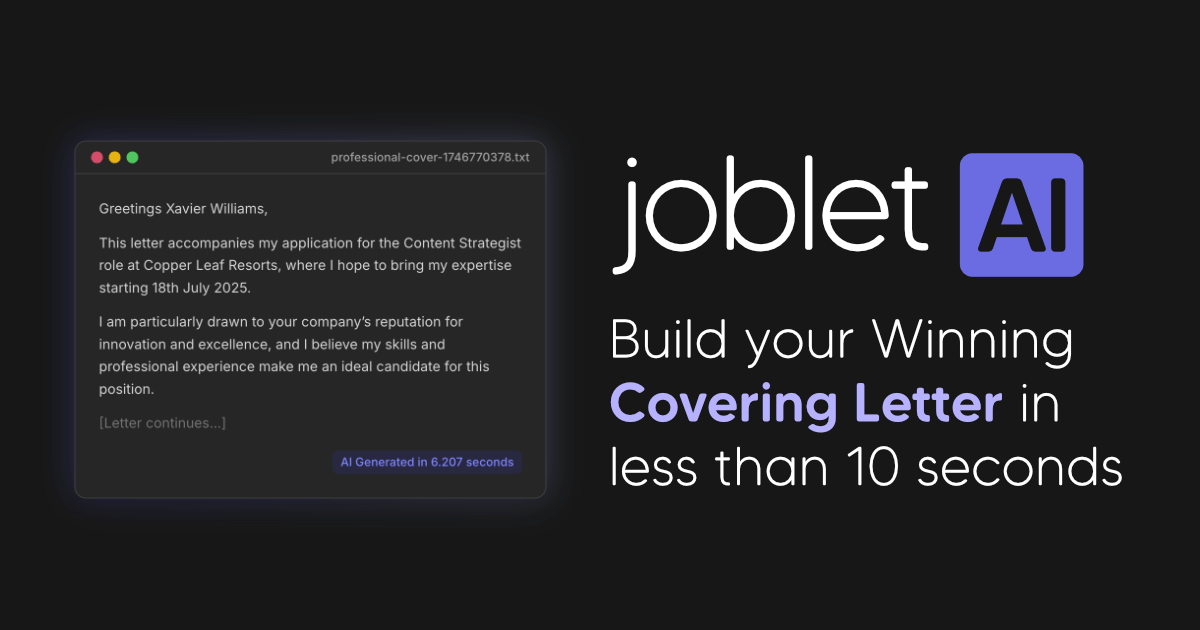
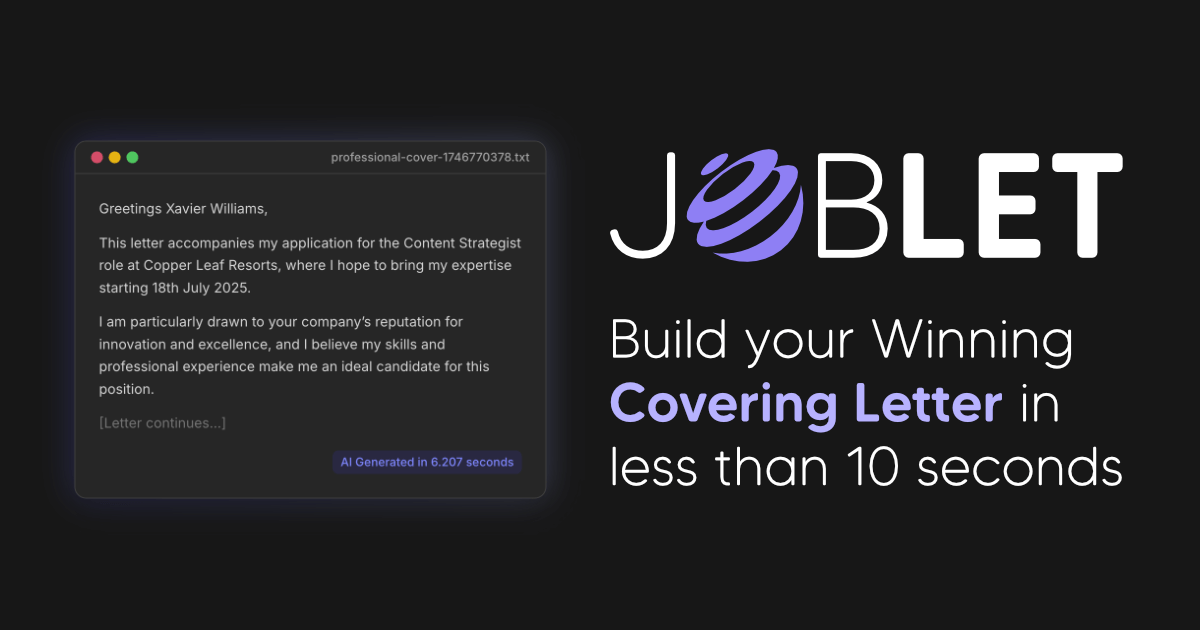
Updated branding

Changed region(s): [[0.4933, 0.2413, 0.9558, 0.4524]]

diff --git a/database/translations/en/home.php b/database/translations/en/home.php
@@ -4,7 +4,7 @@ declare(strict_types=1);
 
 return [
     'title'                            => 'Create Professional Cover Letters in Minutes',
-    'description'                      => 'Create compelling cover letters with JobletAI, delivering customisable templates that highlight your qualifications and capture employer attention. Sign up today!',
+    'description'                      => 'Create compelling cover letters with Joblet, delivering customisable templates that highlight your qualifications and capture employer attention. Sign up today!',
     // HERO SECTION
     'hero.title.part1'                 => 'Build your winning',
     'hero.title.part2'                 => 'Covering Letter',
@@ -26,7 +26,7 @@ return [
     'benefits.list.3.title'            => 'Save Time',
     'benefits.list.3.text'             => 'Creating a well-crafted cover letter typically requires multiple drafts and revisions for each job application. Our service delivers a polished letter in minutes without requiring writing expertise, letting you focus on other aspects of your job search.',
     'benefits.list.4.title'            => 'Stand Out From Competition',
-    'benefits.list.4.text'             => 'The competitive nature of job applications demands cover letters that capture attention. Your JobletAI letter highlights your unique value proposition and relevant skills, ensuring your application rises above the crowd and increases your chances of securing an interview.',
+    'benefits.list.4.text'             => 'The competitive nature of job applications demands cover letters that capture attention. Your Joblet letter highlights your unique value proposition and relevant skills, ensuring your application rises above the crowd and increases your chances of securing an interview.',
     // PROCESS SECTION - HOW IT WORKS
     'process.title.part1'              => 'Three Steps to',
     'process.title.part2'              => 'Success',
@@ -42,7 +42,7 @@ return [
     // TESTIMONIALS SECTION - SUCCESS STORIES
     'testimonials.title.part1'         => 'Application',
     'testimonials.title.part2'         => 'Game-Changers',
-    'testimonials.subtitle'            => 'See how successful applicants use JobletAI to craft compelling applications that showcase their value to employers.',
+    'testimonials.subtitle'            => 'See how successful applicants use Joblet to craft compelling applications that showcase their value to employers.',
     // PRICING SECTION
     'pricing.title.part1'              => 'Flexible',
     'pricing.title.part2'              => 'Simple',
@@ -59,7 +59,7 @@ return [
     'action.title.part1'               => 'Are you ready to',
     'action.title.part2'               => 'Impress Employers',
     'action.title.part3'               => '?',
-    'action.subtitle'                  => 'Stand alongside countless professionals who have used JobletAI to create standout applications that land interviews!',
+    'action.subtitle'                  => 'Stand alongside countless professionals who have used Joblet to create standout applications that land interviews!',
     'action.button1'                   => 'Sign up & get started',
     'action.button2'                   => 'Start your letter build',
     // LETTER PREVIEWS

diff --git a/routes/dev.php b/routes/dev.php
@@ -2,38 +2,29 @@
 
 declare(strict_types=1);
 
-// use App\Models\Order;
-// use App\Models\Payment;
-// use App\Services\Models\UserService;
-// use Illuminate\Support\Facades\Route;
-//
-// Route::get('mailable', static function ()
-// {
+//use App\Models\Order;
+//use App\Models\Payment;
+//use App\Services\Models\UserService;
+//use Illuminate\Support\Facades\Route;
+
+//Route::get('mailable', static function ()
+//{
 //    $data = [
-//        'name' => 'Jane Smith',
-//        'email' => 'jane.smith@example.com',
+//        'name'    => 'Jane Smith',
+//        'email'   => 'jane.smith@example.com',
 //        'message' => "I wanted to provide feedback about your new website design. The navigation is much more intuitive now, and I love the dark mode option!\n\nHowever, I noticed that the contact form sometimes takes a while to submit on mobile devices. Overall, great improvements!",
 //    ];
+//
 //    return (new App\Notifications\Auth\LoginLinkNotification)->toMail(UserService::getSupportUser());
-//    return new App\Notifications\Contact\FeedbackMessageNotification($data)
-//        ->toMail(UserService::getSupportUser());
-// });
-//
-// Route::get('pdf', static function ()
-// {
-//     $order = Order::find('0196ab40-fd74-72a7-a3eb-5a892dd0ede8');
-//
-//     $order = UserService::getSupportUser()->orders()->latest()->first();
-//     Payment::factory()->create([
-//         'order_id'       => $order->id,
-//         'user_id'        => $order->user_id,
-//         'amount'         => $order->price,
-//     ]);
-//        $order   = Order::factory()->for(UserService::getSupportUser())->create();
+//    //    return new App\Notifications\Contact\FeedbackMessageNotification($data)
+//    //        ->toMail(UserService::getSupportUser());
+//});
+
+//Route::get('pdf', static function ()
+//{
+//    $order   = Order::find('0196ba6d-0c92-73ce-a684-ee818f65c74b');
+//    // Payment::factory()->create(['order_id' => $order->id, 'user_id' => $order->user_id]);
 //    $pdfData = new App\Services\Invoice\InvoiceDataService(order: $order)->build();
-//
-//    ray($order, $pdfData);
-//
 //    $service = new App\Services\Invoice\PdfService;
 //    $service
 //        ->setPageMargins(top: 0, right: 0, bottom: 0, left: 0)
@@ -44,4 +35,4 @@ declare(strict_types=1);
 //        ->generate();
 //
 //    return $service->outputToBrowser();
-// // });
+//});

diff --git a/resources/views/components/brand/part-3.blade.php b/resources/views/components/brand/part-3.blade.php
@@ -1,0 +1,7 @@
+<svg viewBox="0 0 548 188" xmlns="http://www.w3.org/2000/svg" fill="currentColor" {{ $attributes }}>
+    <g transform="matrix(1,0,0,1,-756.865,-249.585)">
+        <g transform="matrix(3.5701,0,0,3.5701,-542.883,-2736.19)">
+            <path d="M388.633,861.228C394.869,862.883 399.151,867.246 399.151,874.317C399.151,884.021 391.563,888.986 381.946,888.986L365.342,888.986C364.59,888.986 364.065,888.384 364.065,887.632L364.065,837.682C364.065,836.93 364.59,836.328 365.342,836.328L380.819,836.328C390.436,836.328 396.446,842.045 396.446,849.944C396.446,855.059 393.591,859.046 388.633,861.002L388.633,861.228ZM380.819,840.315L368.047,840.315L368.047,859.723L380.819,859.723C388.257,859.723 392.464,855.661 392.464,849.944C392.464,844.302 388.257,840.315 380.819,840.315ZM381.946,884.999C389.384,884.999 395.094,881.84 395.094,874.317C395.094,866.87 389.384,863.635 381.946,863.635L368.047,863.635L368.047,884.999L381.946,884.999ZM417.258,879.508L434.839,879.508C436.341,879.508 437.468,880.711 437.468,882.216L437.468,886.278C437.468,887.782 436.341,888.986 434.839,888.986L409.67,888.986C408.242,888.986 407.04,887.782 407.04,886.278L407.04,839.036C407.04,837.532 408.242,836.328 409.67,836.328L414.553,836.328C416.056,836.328 417.258,837.532 417.258,839.036L417.258,879.508ZM455.199,879.508L473.381,879.508C474.884,879.508 476.086,880.711 476.086,882.216L476.086,886.278C476.086,887.782 474.884,888.986 473.381,888.986L447.686,888.986C446.184,888.986 444.982,887.782 444.982,886.278L444.982,839.036C444.982,837.532 446.184,836.328 447.686,836.328L472.705,836.328C474.133,836.328 475.335,837.532 475.335,839.036L475.335,843.099C475.335,844.603 474.133,845.807 472.705,845.807L455.199,845.807L455.199,857.617L470.977,857.617C472.405,857.617 473.607,858.821 473.607,860.325L473.607,864.463C473.607,865.892 472.405,867.095 470.977,867.095L455.199,867.095L455.199,879.508ZM514.779,836.328C516.282,836.328 517.484,837.532 517.484,839.036L517.484,843.099C517.484,844.603 516.282,845.807 514.779,845.807L504.786,845.807L504.786,886.278C504.786,887.782 503.659,888.986 502.157,888.986L497.273,888.986C495.846,888.986 494.644,887.782 494.644,886.278L494.644,845.807L484.651,845.807C483.224,845.807 482.021,844.603 482.021,843.099L482.021,839.036C482.021,837.532 483.224,836.328 484.651,836.328L514.779,836.328Z" />
+        </g>
+    </g>
+</svg>

diff --git a/resources/views/components/brand/index.blade.php b/resources/views/components/brand/index.blade.php
@@ -1,17 +1,24 @@
 @props(['size' => 'default'])
-<div class="flex items-center gap-2">
-    @switch($size)
-        @case('pdf')
-            <x-brand.text class="mt-0.5 h-11 text-zinc-600" />
-            <x-brand.icon class="h-11 text-indigo-500" />
-        @break
-        @case('lg')
-            <x-brand.text class="mt-0.5 h-9 xs:h-10 sm:h-12 text-zinc-600 dark:text-white" />
-            <x-brand.icon class="h-9 xs:h-10 sm:h-12 text-indigo-500 dark:text-indigo-300/90" />
-        @break
-        @default
-            <x-brand.text class="mt-0.5 h-5 xs:h-6 sm:h-7 text-zinc-600 dark:text-white" />
-            <x-brand.icon class="h-5 xs:h-6 sm:h-7 text-indigo-500 dark:text-indigo-300/90" />
-        @break
-    @endswitch
-</div>
+@switch($size)
+    @case('pdf')
+        <div class="flex items-center gap-2">
+            <x-brand.part-1 class="h-9 text-zinc-700" />
+            <x-brand..part-2 class="h-10 text-indigo-600" />
+            <x-brand..part-3 class="h-9 text-zinc-700" />
+        </div>
+    @break
+    @case('lg')
+        <div class="flex items-center gap-1.5 dark:gap-2">
+            <x-brand.part-1 class="h-8 sm:h-10 text-zinc-700 dark:text-white" />
+            <x-brand..part-2 class="h-9 sm:h-11 text-indigo-600 dark:text-indigo-300/90" />
+            <x-brand..part-3 class="h-8 sm:h-10 text-zinc-700 dark:text-white" />
+        </div>
+    @break
+    @default
+        <div class="flex items-center gap-1 dark:gap-1.5">
+            <x-brand.part-1 class="h-4 sm:h-5 text-zinc-700 dark:text-white" />
+            <x-brand..part-2 class="h-5 sm:h-6 text-indigo-600 dark:text-indigo-300/90" />
+            <x-brand..part-3 class="h-4 sm:h-5 text-zinc-700 dark:text-white" />
+        </div>
+    @break
+@endswitch

diff --git a/resources/views/components/brand/part-2.blade.php b/resources/views/components/brand/part-2.blade.php
@@ -1,0 +1,7 @@
+<svg viewBox="0 0 213 205" xmlns="http://www.w3.org/2000/svg" fill="currentColor" {{ $attributes }}>
+    <g transform="matrix(1,0,0,1,-508.699,-241.108)">
+        <g transform="matrix(-1.72288,-2.24559,2.24559,-1.72288,591.619,541.56)">
+            <path d="M80.11,49.695C80.107,43.748 81.591,38.926 83.415,38.925C85.239,38.925 86.715,43.747 86.718,49.698C86.715,55.642 85.236,60.466 83.413,60.466C81.591,60.466 80.113,55.646 80.11,49.695ZM39.138,14.154C30.508,21.637 24.764,34.868 24.764,49.934C24.764,65 30.504,78.232 39.145,85.71C24.063,79.453 13.605,65.785 13.609,49.933C13.609,34.084 24.063,20.414 39.138,14.154ZM49.349,10.23C52.871,10.234 56.057,14.668 58.372,21.83C60.32,17.143 62.762,14.346 65.413,14.346C71.778,14.338 76.939,30.409 76.934,50.225C76.939,70.042 71.774,86.11 65.407,86.108C62.737,86.108 60.277,83.266 58.323,78.51C56.014,85.581 52.845,89.946 49.354,89.948C42.282,89.946 36.546,72.103 36.546,50.087C36.546,28.084 42.283,10.23 49.349,10.23ZM75.225,50.227C75.229,39.102 72.465,30.084 69.051,30.081C65.639,30.085 62.875,39.104 62.875,50.231C62.875,61.347 65.639,70.37 69.051,70.37C72.461,70.37 75.23,61.348 75.225,50.227ZM57.792,23.318C56.626,21.701 55.333,20.797 53.971,20.794C48.776,20.794 44.564,33.913 44.564,50.087C44.564,66.269 48.776,79.382 53.978,79.386C55.308,79.386 56.576,78.521 57.726,76.962C55.369,70.392 53.884,60.849 53.885,50.226C53.885,39.509 55.397,29.894 57.792,23.318Z" />
+        </g>
+    </g>
+</svg>

diff --git a/tests/Unit/Services/Invoice/InvoiceDataServiceTest.php b/tests/Unit/Services/Invoice/InvoiceDataServiceTest.php
@@ -15,7 +15,7 @@ use Illuminate\Support\Facades\Config;
 beforeEach(closure: function (): void
 {
     Config::set(key: 'settings.invoices.address', value: 'Line 1|Line 2|Line 3');
-    Config::set(key: 'app.name', value: 'JobletAI');
+    Config::set(key: 'app.name', value: 'Joblet');
     Config::set(key: 'app.url', value: 'https://joblet.ai');
     Config::set(key: 'settings.contact', value: 'contact@joblet.ai');
     Config::set(key: 'settings.invoices.descriptor', value: 'Invoice');
@@ -83,7 +83,7 @@ it(description: 'builds complete invoice data with all components', closure: fun
         ->toBeArray()
         ->toHaveKeys(keys: ['name', 'website', 'email', 'descriptor', 'address'])
         ->and(value: $result['settings']['name'])
-        ->toBe(expected: 'JobletAI')
+        ->toBe(expected: 'Joblet')
         ->and(value: $result['settings']['website'])
         ->toBe(expected: 'https://joblet.ai')
         ->and(value: $result['settings']['email'])

diff --git a/resources/views/components/invoice/footer.blade.php b/resources/views/components/invoice/footer.blade.php
@@ -8,13 +8,13 @@
     <div class="flex items-center justify-center gap-4">
         <div class="flex items-center gap-1.5">
             <flux:icon.earth class="size-4 text-neutral-500" />
-            <a href="{{ $settings['website'] }}" class="text-lime-600 font-medium">
+            <a href="{{ $settings['website'] }}" class="text-indigo-600 font-medium">
                 {{ $settings['website'] }}
             </a>
         </div>
         <div class="flex items-center gap-1.5">
             <flux:icon.mail class="size-4 text-neutral-500" />
-            <a href="mailto:{{ $settings['email'] }}" class="text-lime-600 font-medium">
+            <a href="mailto:{{ $settings['email'] }}" class="text-indigo-600 font-medium">
                 {{ $settings['email'] }}
             </a>
         </div>

diff --git a/resources/views/components/invoice/branding.blade.php b/resources/views/components/invoice/branding.blade.php
@@ -9,13 +9,13 @@
     <div class="flex items-center gap-4">
         <div class="flex items-center gap-1.5">
             <flux:icon.earth class="size-4 text-neutral-500" />
-            <a href="{{ $settings['website'] }}" class="text-lime-600 font-medium">
+            <a href="{{ $settings['website'] }}" class="text-indigo-600 font-medium">
                 {{ $settings['website'] }}
             </a>
         </div>
         <div class="flex items-center gap-1.5">
             <flux:icon.mail class="size-4 text-neutral-500" />
-            <a href="mailto:{{ $settings['email'] }}" class="text-lime-600 font-medium">
+            <a href="mailto:{{ $settings['email'] }}" class="text-indigo-600 font-medium">
                 {{ $settings['email'] }}
             </a>
         </div>

diff --git a/resources/views/components/brand/part-1.blade.php b/resources/views/components/brand/part-1.blade.php
@@ -1,0 +1,7 @@
+<svg viewBox="0 0 117 192" xmlns="http://www.w3.org/2000/svg" fill="currentColor" {{ $attributes }}>
+    <g transform="matrix(1,0,0,1,-359.481,-247.973)">
+        <g transform="matrix(3.5701,0,0,3.5701,-930.441,-2737.8)">
+            <path d="M391.337,836.328C390.586,836.328 389.985,836.93 389.985,837.682L389.985,871.985C389.985,881.238 385.177,885.902 377.739,885.902C371.503,885.902 366.619,882.592 365.192,876.122C365.041,875.445 364.365,874.994 363.689,875.069L362.712,875.295C361.735,875.445 361.134,876.348 361.36,877.251C363.313,885.45 369.699,889.889 377.739,889.889C387.355,889.889 394.042,883.419 394.042,871.985L394.042,837.682C394.042,836.93 393.441,836.328 392.69,836.328L391.337,836.328Z" />
+        </g>
+    </g>
+</svg>

diff --git a/resources/views/components/layouts/error.blade.php b/resources/views/components/layouts/error.blade.php
@@ -5,8 +5,8 @@
             <a href="{{ route('home') }}">
                 <x-brand size="lg" />
             </a>
-            <div class="text-center rounded-xl p-6 bg-black/15">
-                <flux:heading level="1" class="!text-base xs:!text-lg text-rose-500 !font-medium">
+            <div class="text-center rounded-xl p-6 bg-white dark:bg-black/15">
+                <flux:heading level="1" class="!text-base xs:!text-lg text-indigo-600 dark:text-indigo-500 !font-medium">
                     {{ $title }}
                 </flux:heading>
                 <flux:subheading clas="leading-relaxed text-center">

diff --git a/resources/views/components/invoice/paid.blade.php b/resources/views/components/invoice/paid.blade.php
@@ -1,7 +1,7 @@
 @props(['settings'])
 <div class="space-y-4">
     <div class="flex justify-center">
-        <div class="!bg-lime-600/70 !text-white font-medium rounded-md h-10 flex items-center justify-center px-3.5">
+        <div class="!bg-emerald-600/70 !text-white font-medium rounded-md h-10 flex items-center justify-center px-3.5">
             {{ trans('invoice.paid') }}
         </div>
     </div>

diff --git a/database/seeders/DatabaseSeeder.php b/database/seeders/DatabaseSeeder.php
@@ -16,7 +16,7 @@ final class DatabaseSeeder extends Seeder
                 'email' => config(key: 'settings.contact'),
             ],
             values: [
-                'name'     => 'JobletAI Support',
+                'name'     => 'Joblet Support',
                 'password' => bcrypt(value: str()->random(40)),
             ]
         );
